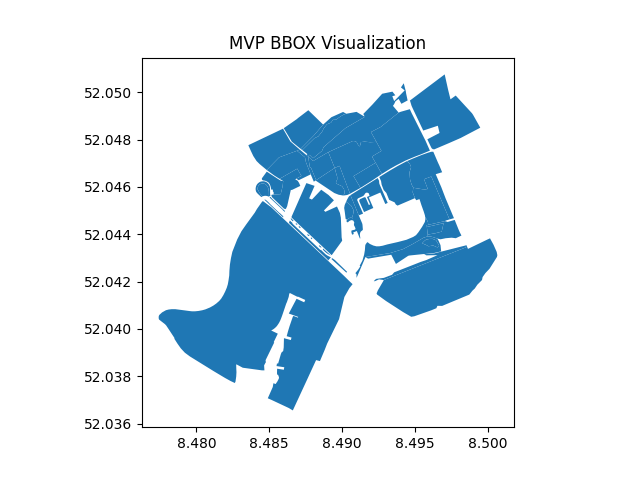
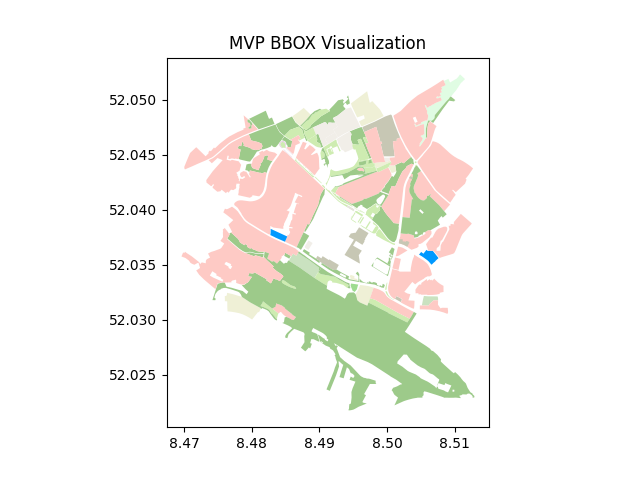
feat: add colorization to osmnx mvp

diff --git a/scripts/osmnx_mvp.py b/scripts/osmnx_mvp.py
@@ -4,14 +4,19 @@ import osmnx as ox
 
 # define bbox
 # data needs to be in format north, south, west, east
-bielefeld_campus_nord = 52.042408, 52.047661, 8.484921, 8.496294
+bielefeld_campus_north = 52.042408, 52.047661, 8.484921, 8.496294
+bielefeld_campus = 52.031162, 52.047687, 8.479815, 8.506250
 
 # define data filter
 desired_tags = {"landuse": True}
 
-# get data
+# Loading Data from OSM
+# Roughly comparable Overpass API query:
+#   nwr(around:1000,52.039320,8.493118)[landuse];
+#   (._;>;);
+#   out;
 data = ox.features.features_from_bbox(
-    *bielefeld_campus_nord,
+    *bielefeld_campus,
     tags=desired_tags,
 )
 
@@ -49,7 +54,7 @@ color_map = {
     "depot": "#000000",
     "garages": "#deddcc",
     "grass": "#ceecb1",
-    "greenfield": "f1eee8#",
+    "greenfield": "#f1eee8",
     "landfill": "b6b690#",
     "miliraty": "#f3e4de",
     "port": "#000000",
@@ -61,10 +66,11 @@ color_map = {
     "winter_sports": "#000000",
     "user defined": "#000000",
 }
+colors = [color_map.get(x, "#000000") for x in data["landuse"].array]
 
 # build visualization
 fig, axes = plt.subplots()
-data.plot(ax=axes)
+data.plot(color=colors, ax=axes)
 axes.set_title("MVP BBOX Visualization")
 
 # save visualization

diff --git a/README.md b/README.md
@@ -4,6 +4,8 @@
 
 parses world data from different sources and provides an efficient and high-level interface to it
 
+
+
 ## Using
 
 To add and install this package as a dependency of your project, run `poetry add world-parser`.
